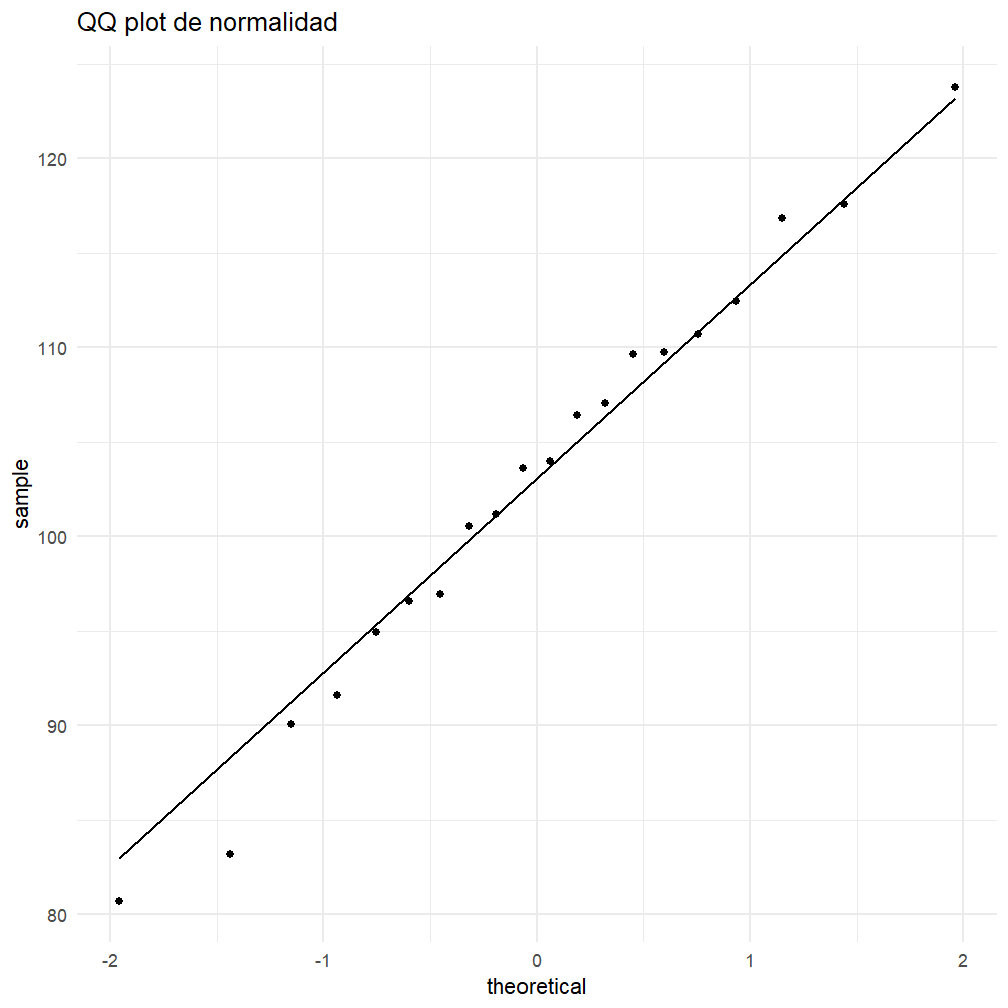
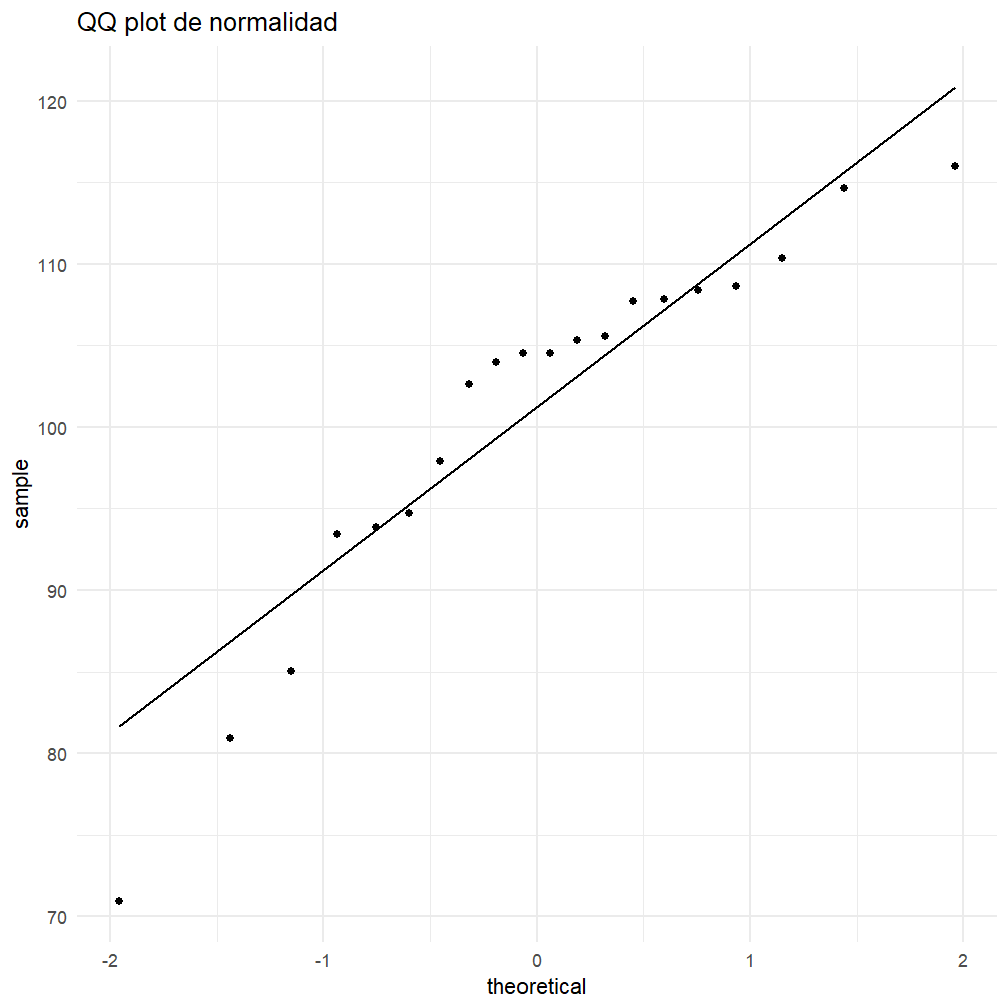
Correcion ggplot2

diff --git a/index.html b/index.html
@@ -340,7 +340,7 @@ mean(x)
 ```
 
 ```
-[1] 118.7937
+[1] 120.0864
 ```
 
 ```r
@@ -348,7 +348,7 @@ sd(x)
 ```
 
 ```
-[1] 9.481865
+[1] 9.684019
 ```
 
 
@@ -418,7 +418,7 @@ class: center middle inverse
 
 
 ```r
-install.packages(ggplot2) # se instala una única vez en el documento
+install.packages('ggplot2') # se instala una única vez en el documento
 ```
 
 ---
@@ -710,7 +710,7 @@ shapiro.test(x.normal)
 	Shapiro-Wilk normality test
 
 data:  x.normal
-W = 0.98472, p-value = 0.9798
+W = 0.89499, p-value = 0.03326
 ```
 
 
@@ -750,7 +750,7 @@ ic
 ```
 
 ```
-[1]  97.57888 108.19032
+[1]  95.48006 106.22089
 ```
 
 ---
@@ -769,13 +769,13 @@ t.test(x.normal)
 	One Sample t-test
 
 data:  x.normal
-t = 40.586, df = 19, p-value &lt; 2.2e-16
+t = 39.305, df = 19, p-value &lt; 2.2e-16
 alternative hypothesis: true mean is not equal to 0
 95 percent confidence interval:
-  97.57888 108.19032
+  95.48006 106.22089
 sample estimates:
 mean of x 
- 102.8846 
+ 100.8505 
 ```
 
 ---
@@ -792,7 +792,7 @@ ci(x.normal)
 
 ```
   Estimate   CI lower   CI upper Std. Error 
-102.884597  97.578877 108.190318   2.534955 
+100.850477  95.480064 106.220890   2.565863 
 ```
 
 
